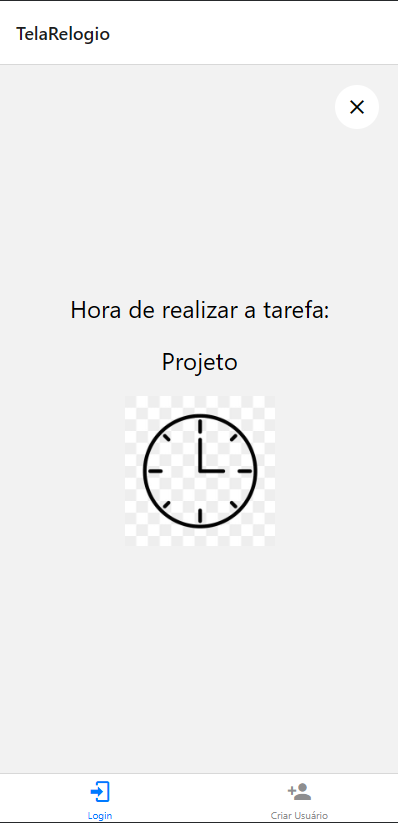
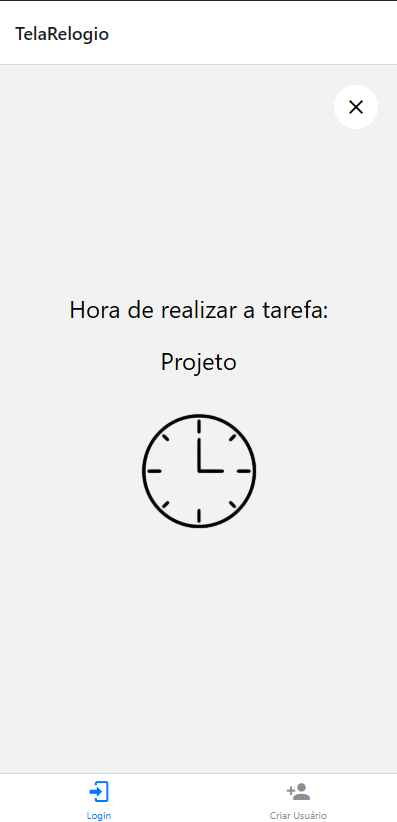
Mudei a foto da telaRelogio.

diff --git a/App.js b/App.js
@@ -402,7 +402,7 @@ class TelaRelogio extends React.Component {
           <Text>{titulo}</Text>
         </Text>
         <Image
-          source={require('./assets/relogio.jpg')}
+          source={require('./assets/relogio.png')}
           style={styles.ImgTelaRelogio}
         />
         <TouchableOpacity
